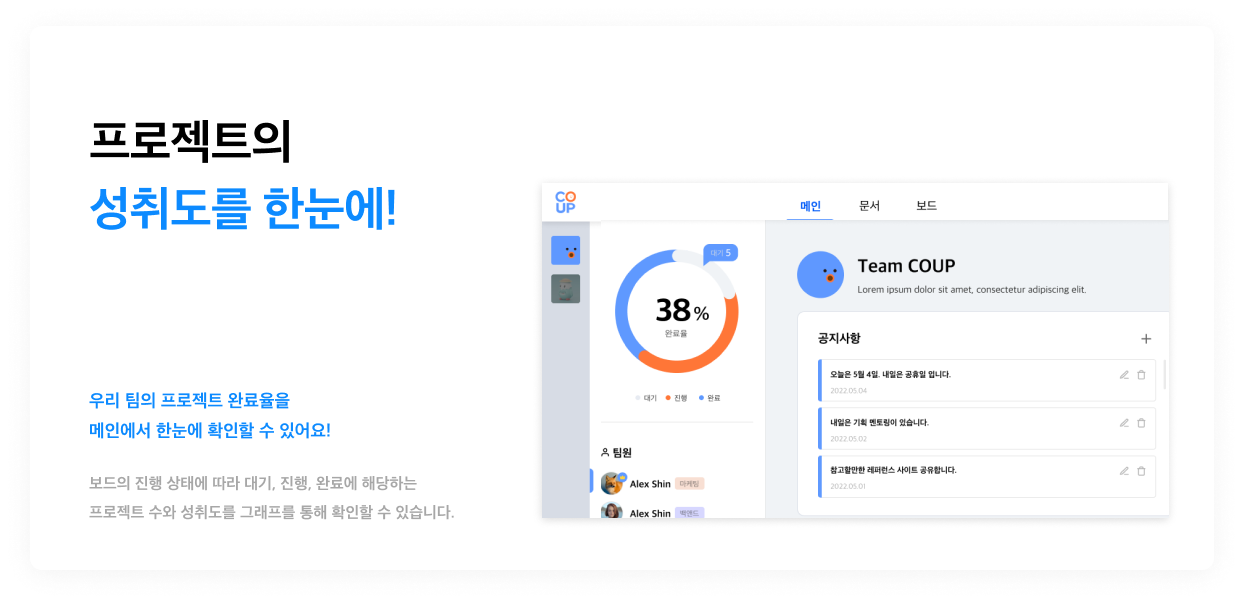
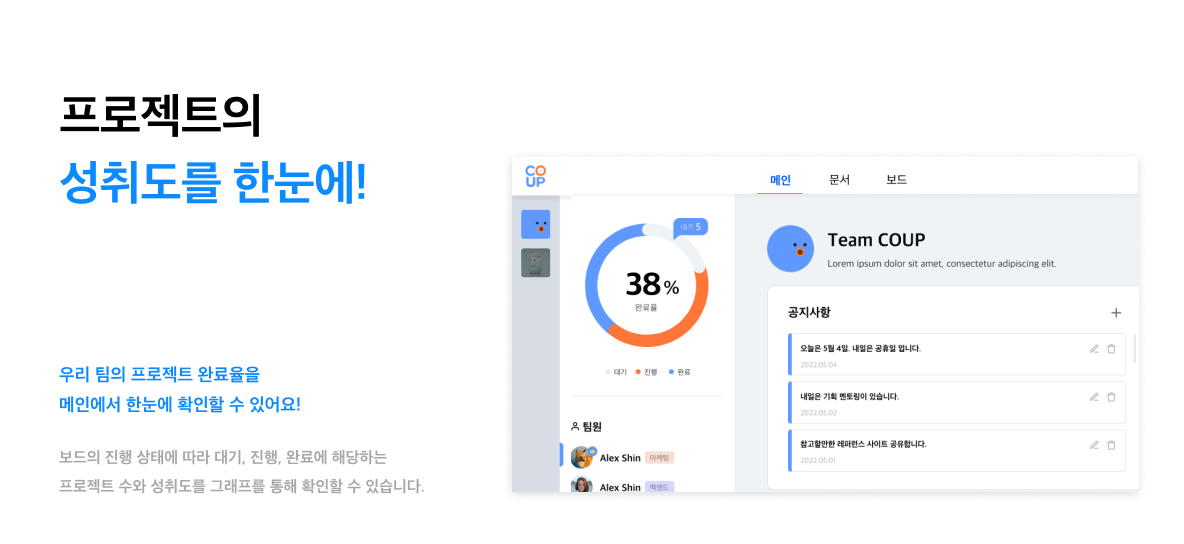
[style] 소개페이지 변경

diff --git a/src/layout/Chat.tsx b/src/layout/Chat.tsx
@@ -23,7 +23,6 @@ const stompClient: Stomp.Client = Stomp.over(sockJS);
 stompClient.debug = () => {};
 
 const Chat = () => {
-  const [messages, setMessages] = React.useState<content[]>([]);
   const { pjId } = useRecoilValue(ProjectKey);
   const user = useRecoilValue(MyProfile);
   const senderLoginId = user.loginId;
@@ -34,27 +33,19 @@ const Chat = () => {
   useEffect(() => {
     stompClient.connect({}, () => {
       console.log("connect");
-      stompClient.subscribe(`/sub/chatting/${pjId}`, (data) => {
-        const newMessage: content = JSON.parse(data.body) as content;
-        addMessage(newMessage);
+      stompClient.subscribe(`/sub/chatting/${pjId}`, () => {
         queryClient.invalidateQueries("getChatting");
       });
     });
-  }, [messages]);
+  }, [result]);
 
   useEffect(() => {
     setTimeout(() => {
-      stompClient.subscribe(`/sub/chatting/${pjId}`, async (data) => {
-        const newMessage: content = (await JSON.parse(data.body)) as content;
-        addMessage(newMessage);
+      stompClient.subscribe(`/sub/chatting/${pjId}`, async () => {
         queryClient.invalidateQueries("getChatting");
       });
     }, 500);
-  }, [pjId, messages]);
-
-  const addMessage = (content: content) => {
-    setMessages((prev) => [...prev, content]);
-  };
+  }, [pjId, result]);
   return (
     <div className="w-[432px] h-[calc(100%-4rem)] bg-[#fff] dark:bg-6 border-[#E7EBF2] dark:border-[#606468] border-l-[1px] border-solid flex flex-col justify-end absolute top-16 right-0 md:hidden">
       <ChatPre

diff --git a/src/styles/GlobalStyle.ts b/src/styles/GlobalStyle.ts
@@ -327,12 +327,14 @@ abbr[title]{
   left: -54px;
 } */
 .slick-dots li button:before{
+  margin-top: 35px;
   font-size: 10px;
   width: 10px;
   height: 10px;
+  
 }
 .slick-dots li.slick-active button:before{
-  color: #5F99FF;
+  color: ${(props) => props.theme.textColor} !important;
 }
 
 .slick-dots {
@@ -350,6 +352,20 @@ abbr[title]{
   padding-top: 14px !important;
   font-size: 16px !important;
 }
+
+.toastui-editor-tooltip > .text{
+  color:white
+}
+
+#toastuiAltTextInput {
+  background-color: white;
+}
+
+.wmde-markdown > p > img {
+  max-width: 500px;
+  max-height: 500px;
+}
+
 @media screen and (max-width: 768px) {
   .toastui-editor-defaultUI .ProseMirror{
     padding-left: 10px !important;
@@ -361,6 +377,24 @@ abbr[title]{
     height: 30px;
   }
 }
+
+@media only screen and (max-width: 480px){
+  .toastui-editor-popup {
+    max-width: 300px;
+    margin-left: -10px;
+}
+.toastui-editor-dropdown-toolbar {
+  display: flex;
+  flex-direction: column;
+} .toastui-editor-toolbar-group {
+  background-color: #f0f3f7;
+}
+.wmde-markdown > p > img {
+  max-width: 300px;
+  max-height: 300px;
+}
+}
+
 
 /* sweetalert2 */
 .swal2-container{
@@ -385,7 +419,8 @@ foreignObject{
 .apexcharts-svg{
   height: 225px !important;
 }
-SvgjsFeFuncR1393{
-  color: red;
+
+.apexcharts-tooltip-y-group > span {
+  color:black !important
 }
 `;

diff --git a/src/Components/IntroHome/Slider.tsx b/src/Components/IntroHome/Slider.tsx
@@ -18,12 +18,12 @@ const IntroSlider = () => {
   };
   return (
     <Slider {...settings}>
-      <img width={1244} height={604} src={slider1} alt="1" />
-      <img width={1244} height={604} src={slider2} alt="2" />
-      <img width={1244} height={604} src={slider3} alt="3" />
-      <img width={1244} height={604} src={slider4} alt="4" />
-      <img width={1244} height={604} src={slider5} alt="5" />
-      <img width={1244} height={604} src={slider6} alt="6" />
+      <img width={1184} height={544} src={slider1} alt="1" />
+      <img width={1184} height={544} src={slider2} alt="2" />
+      <img width={1184} height={544} src={slider3} alt="3" />
+      <img width={1184} height={544} src={slider4} alt="4" />
+      <img width={1184} height={544} src={slider5} alt="5" />
+      <img width={1184} height={544} src={slider6} alt="6" />
     </Slider>
   );
 };

diff --git a/src/layout/ChatPre.tsx b/src/layout/ChatPre.tsx
@@ -116,7 +116,7 @@ const ChatPre = ({ contents, senderLoginId, pjId, pageNumber }: ChatPresenterPro
                   }`}
                 >
                   <span className="text-[#AAA] text-xs">
-                    {/* {box.dateTime.replaceAll("-", ".").slice(11, 16)} */}
+                    {box.dateTime.replaceAll("-", ".").slice(11, 16)}
                   </span>
                   <div
                     className={`min-w-[25px] min-h-[40px] bg-[#f5f5f5] dark:bg-[#3D4853] p-[10px] rounded-md`}
